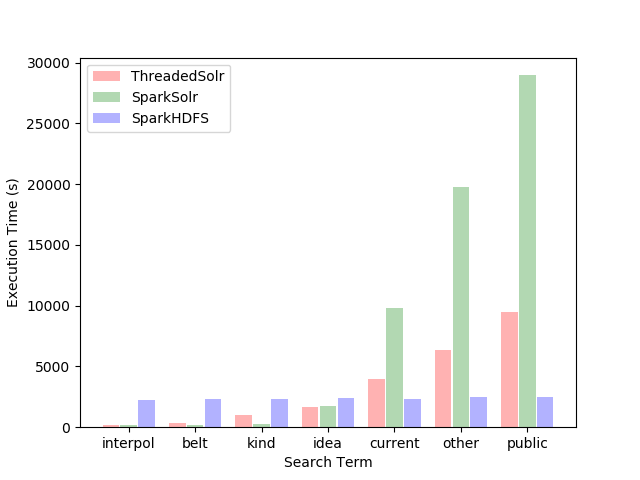
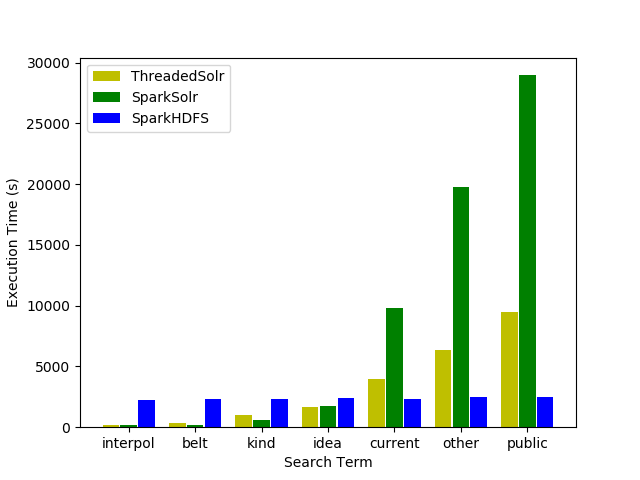
Update graphs

Changed region(s): [[0.1562, 0.1562, 0.875, 0.9062], [0.125, 0.125, 0.1875, 0.2812]]

diff --git a/report/resource_usage.py b/report/resource_usage.py
@@ -42,7 +42,7 @@ exp_results = {
         "napoleon": 18403,
         "interpol": 152145,
         "belt": 182208,
-        "kind": 261689,
+        "kind": 625000,
         "idea": 1720868,
         "current": 9797357,
         "other": 19737940,
@@ -359,21 +359,24 @@ def draw_bar_terms():
 
     X = np.arange(len(terms))
 
-    solr_legend = mpatches.Patch(facecolor='#D3D3D3', alpha=0.6, hatch='xx', label='Solr')
-    hdfs_legend = mpatches.Patch(facecolor='#D3D3D3', alpha=0.6, hatch=r'//', label='HDFS')
-    spark_legend = mpatches.Patch(facecolor='#D3D3D3', alpha=0.6, hatch='oo', label='Spark')
-    legend_lst = [solr_legend, hdfs_legend, spark_legend]
+    solr_legend = mpatches.Patch(facecolor='#D3D3D3', alpha=0.7, hatch='xx', label='Solr')
+    hdfs_legend = mpatches.Patch(facecolor='#D3D3D3', alpha=0.7, hatch=r'//', label='HDFS')
+    spark_legend = mpatches.Patch(facecolor='#D3D3D3', alpha=0.7, hatch='..', label='Spark')
+    exp1_legend = mpatches.Patch(facecolor='y', alpha=0.7, label='ThreadedSolr')
+    exp2_legend = mpatches.Patch(facecolor='g', alpha=0.7, label='SparkSolr')
+    exp3_legend = mpatches.Patch(facecolor='b', alpha=0.7, label='SparkHDFS')
+    legend_lst = [solr_legend, hdfs_legend, spark_legend, exp1_legend, exp2_legend, exp3_legend]
 
     ### driver
 
     # exp1
-    plt.bar(X - 0.27, exp1_driver_cpu_usage, color='r', alpha=0.3, width=0.25)
+    plt.bar(X - 0.27, exp1_driver_cpu_usage, color='y', width=0.25)
 
     # exp2
-    plt.bar(X, exp2_driver_cpu_usage, color='g', alpha=0.3, width=0.25)
+    plt.bar(X, exp2_driver_cpu_usage, color='g', width=0.25)
 
     # exp3
-    plt.bar(X + 0.27, exp3_driver_cpu_usage, color='b', alpha=0.3, width=0.25)
+    plt.bar(X + 0.27, exp3_driver_cpu_usage, color='b', width=0.25)
 
     plt.xticks(X, terms)
     plt.xlabel('Search Term')
@@ -387,15 +390,15 @@ def draw_bar_terms():
     plt.clf()
 
     # exp1
-    plt1 = plt.bar(X - 0.27, exp1_solr_cpu_usage, color='r', alpha=0.3, width=0.25, hatch='xx')
+    plt1 = plt.bar(X - 0.27, exp1_solr_cpu_usage, color='y', alpha=0.7, width=0.25, hatch='xx')
 
     # exp2
-    plt2 = plt.bar(X, exp2_solr_cpu_usage, color='g', alpha=0.3, width=0.25, hatch='xx')
-    plt.bar(X, exp2_spark_cpu_usage, bottom=exp2_solr_cpu_usage, color='g', alpha=0.3, width=0.25, hatch='oo')
+    plt2 = plt.bar(X, exp2_solr_cpu_usage, color='g', alpha=0.7, width=0.25, hatch='xx')
+    plt.bar(X, exp2_spark_cpu_usage, bottom=exp2_solr_cpu_usage, color='g', alpha=0.7, width=0.25, hatch='..')
 
     # exp3
-    plt2 = plt.bar(X + 0.27, exp3_hdfs_cpu_usage, bottom=exp3_spark_cpu_usage, color='b', alpha=0.3, width=0.25, hatch='//')
-    plt3 = plt.bar(X + 0.27, exp3_spark_cpu_usage, color='b', alpha=0.3, width=0.25, hatch='oo')
+    plt2 = plt.bar(X + 0.27, exp3_hdfs_cpu_usage, bottom=exp3_spark_cpu_usage, color='b', alpha=0.7, width=0.25, hatch='//')
+    plt3 = plt.bar(X + 0.27, exp3_spark_cpu_usage, color='b', alpha=0.7, width=0.25, hatch='..')
 
     plt.xticks(X, terms)
     plt.xlabel('Search Term')
@@ -412,13 +415,13 @@ def draw_bar_terms():
     plt.clf()
 
     # exp1
-    plt.bar(X - 0.27, exp1_driver_mem_usage, color='r', alpha=0.3, width=0.25)
+    plt.bar(X - 0.27, exp1_driver_mem_usage, color='y', width=0.25)
 
     # exp2
-    plt.bar(X, exp2_driver_mem_usage, color='g', alpha=0.3, width=0.25)
+    plt.bar(X, exp2_driver_mem_usage, color='g', width=0.25)
 
     # exp3
-    plt.bar(X + 0.27, exp3_driver_mem_usage, color='b', alpha=0.3, width=0.25)
+    plt.bar(X + 0.27, exp3_driver_mem_usage, color='b', width=0.25)
 
     plt.xticks(X, terms)
     plt.xlabel('Search Term')
@@ -432,15 +435,15 @@ def draw_bar_terms():
     plt.clf()
 
     # exp1
-    plt1 = plt.bar(X - 0.27, exp1_solr_mem_usage, color='r', alpha=0.3, width=0.25, hatch='xx')
+    plt1 = plt.bar(X - 0.27, exp1_solr_mem_usage, color='y', alpha=0.7, width=0.25, hatch='xx')
 
     # exp2
-    plt.bar(X, exp2_solr_mem_usage, color='g', alpha=0.3, width=0.25, hatch='xx')
-    plt.bar(X, exp2_spark_mem_usage, bottom=exp2_solr_mem_usage, color='g', alpha=0.3, width=0.25, hatch='oo')
+    plt.bar(X, exp2_solr_mem_usage, color='g', alpha=0.7, width=0.25, hatch='xx')
+    plt.bar(X, exp2_spark_mem_usage, bottom=exp2_solr_mem_usage, color='g', alpha=0.7, width=0.25, hatch='..')
 
     # exp3
-    plt2 = plt.bar(X + 0.27, exp3_hdfs_mem_usage, bottom=exp3_spark_mem_usage, color='b', alpha=0.3, width=0.25, hatch='**')
-    plt3 = plt.bar(X + 0.27, exp3_spark_mem_usage, color='b', alpha=0.3, width=0.25, hatch='oo')
+    plt2 = plt.bar(X + 0.27, exp3_hdfs_mem_usage, bottom=exp3_spark_mem_usage, color='b', alpha=0.7, width=0.25, hatch=r'//')
+    plt3 = plt.bar(X + 0.27, exp3_spark_mem_usage, color='b', alpha=0.7, width=0.25, hatch='..')
 
     plt.xticks(X, terms)
     plt.xlabel('Search Term')
@@ -459,13 +462,13 @@ def draw_runtime():
     X = np.arange(len(terms))
 
     # driver totals
-    plt.bar(X - 0.27, exp1_runtime, color='r', alpha=0.3, width=0.25)
+    plt.bar(X - 0.27, exp1_runtime, color='y', width=0.25)
 
     # solr totals
-    plt.bar(X, exp2_runtime, color='g', alpha=0.3, width=0.25)
+    plt.bar(X, exp2_runtime, color='g', width=0.25)
 
     # spark totals
-    plt.bar(X + 0.27, exp3_runtime, color='b', alpha=0.3, width=0.25)
+    plt.bar(X + 0.27, exp3_runtime, color='b',width=0.25)
 
     plt.xticks(X, terms)
     plt.xlabel('Search Term')
